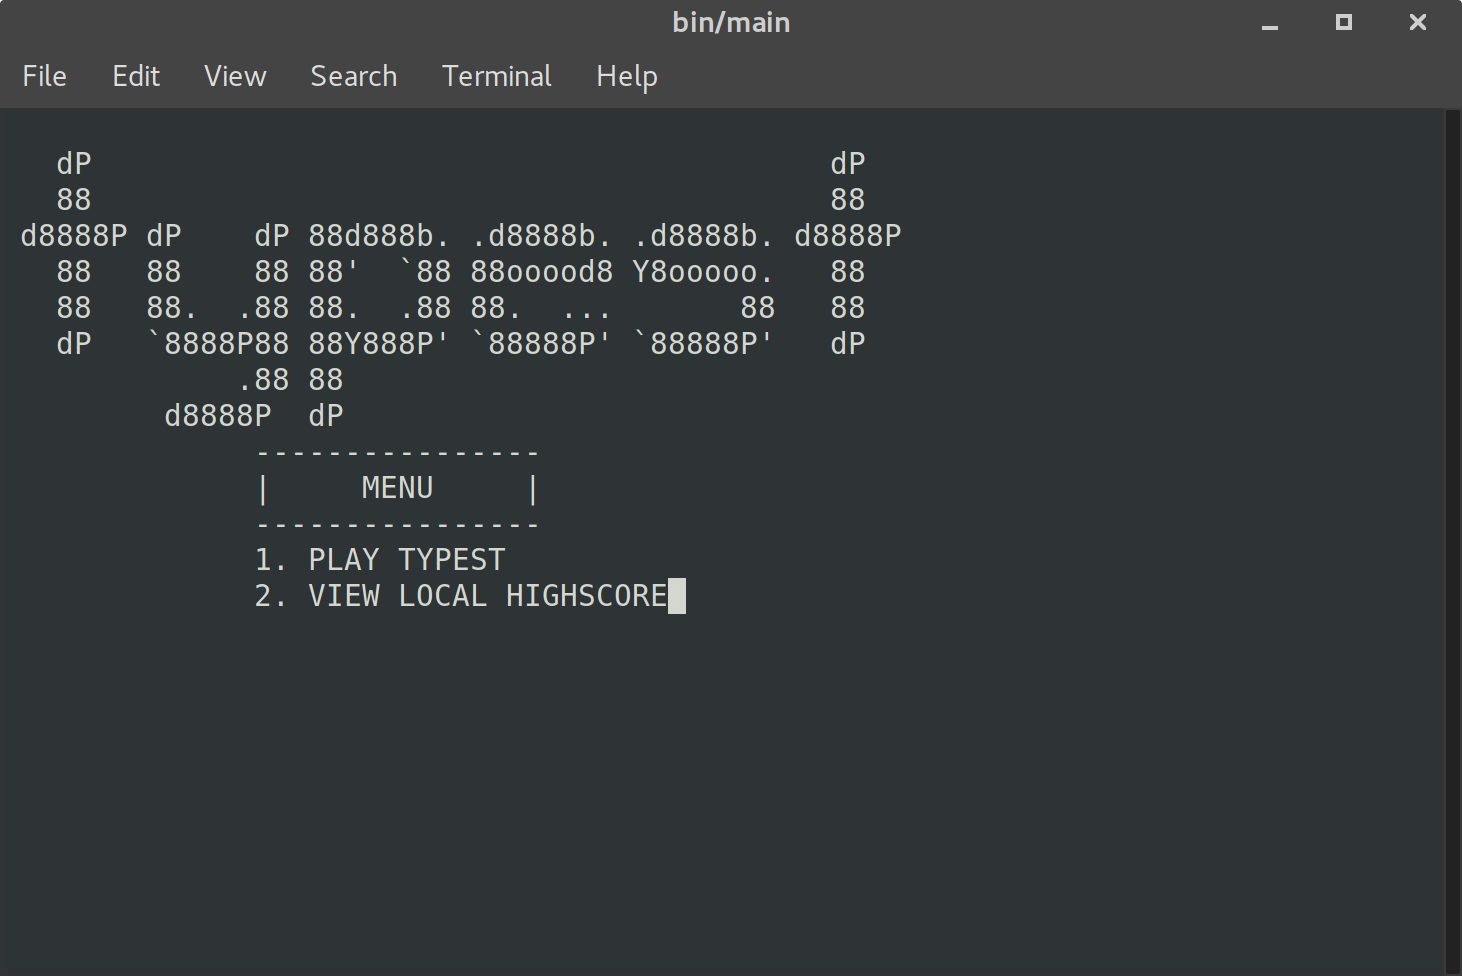
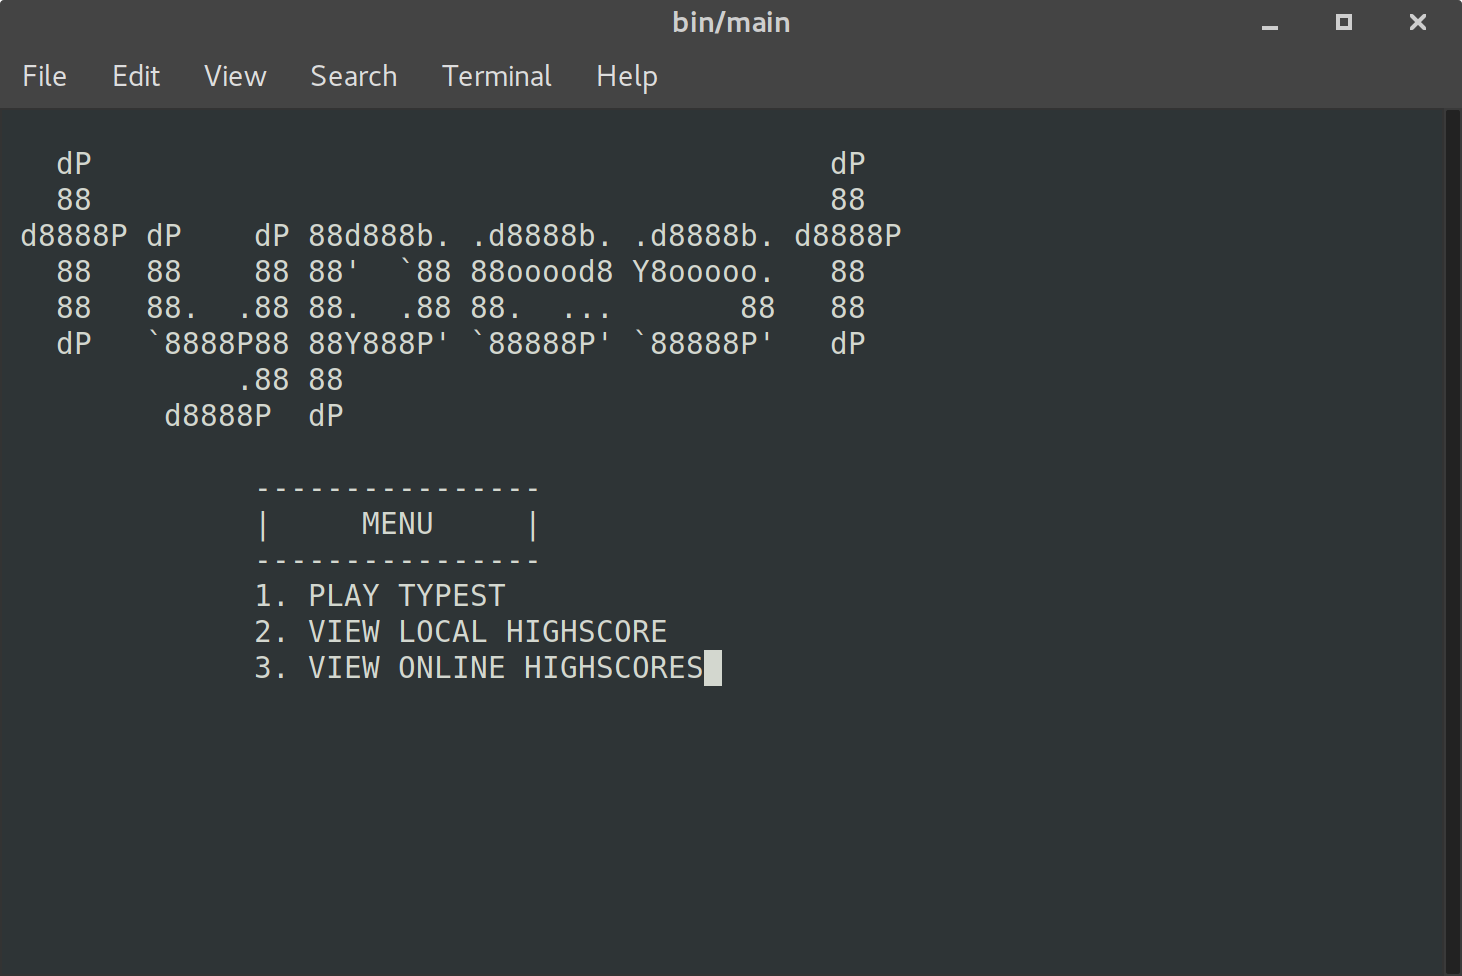
updated screenshot , updated local highscore formatting

Changed region(s): [[0.1539, 0.4611, 0.4925, 0.707]]

diff --git a/src/main.cpp b/src/main.cpp
@@ -236,9 +236,9 @@ int Menu(){
 	napms(100);
 	
 	}
-	move(10,9);
+	move(10,0);
 	if (currentUser.name == ""){
-		printw("Please enter your username(max. 8 characters):\n");
+		printw("         Please enter your username(max. 8 characters):\n");
 		move(11,9);
 		char name[100];
 		getstr(name);
@@ -301,7 +301,7 @@ int writeHighscore(char lang) {
 		language = "English";
 	}
 	//formatointia
-	hsString = language + " " + wpmStr + " " + timeStr + " " + accStr + " " + scoreStr;
+	hsString = language + "   " + wpmStr + " " + timeStr + " " + accStr + " " + scoreStr;
 	//kirjoittaa tiedostoon formatoidun stringin
 	highscoreFile << hsString <<endl;
 	//sulkee tiedoston
